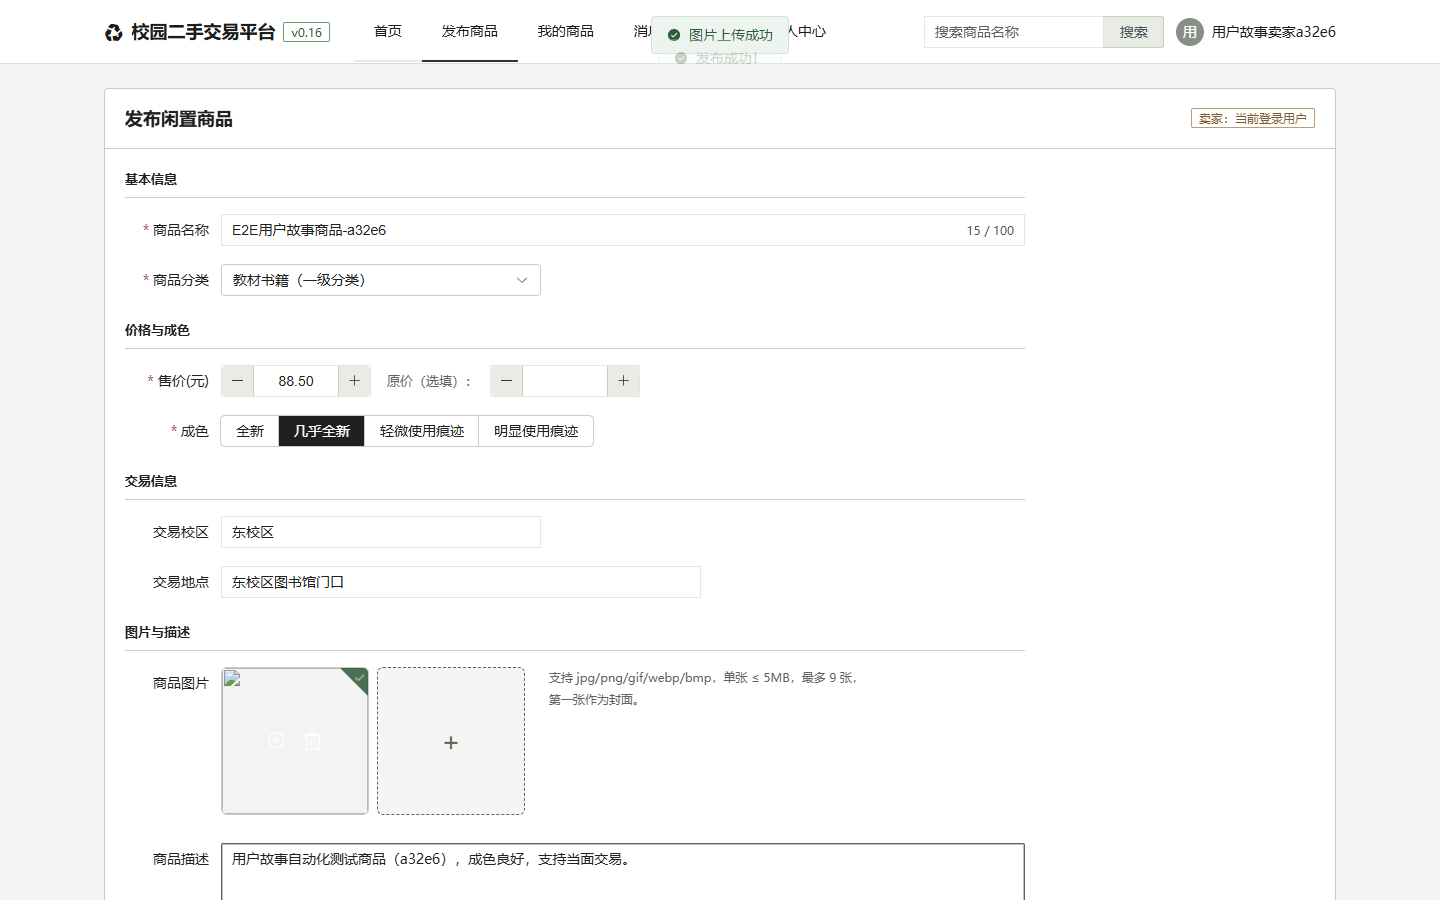
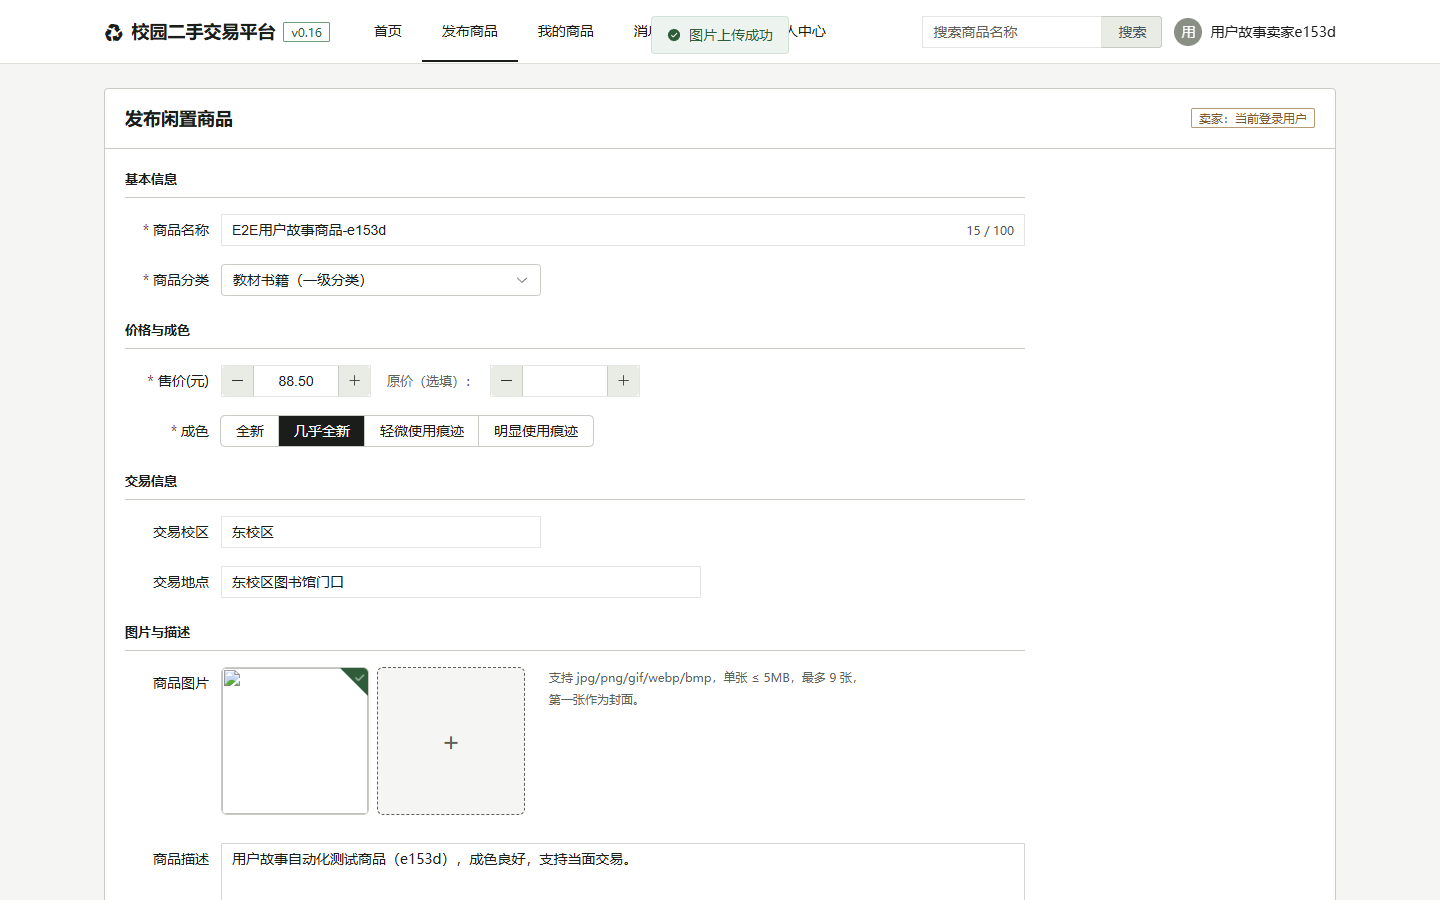
fix: 修复收藏取消断言漏确认弹窗；start.ps1 输出重定向与编码健壮性
一、tools/story-browser-report.py：收藏取消断言补上确认弹窗
  现象：浏览器报告里 US-FAV-01「取消收藏后列表中移除」一直未通过。
  原因：点「取消收藏」后会弹出 Element Plus 确认框（MessageBox），
        脚本点完按钮就刷新页面核对，没走确认这一步，取消根本没生效。
        用户手工验证收藏与取消都正常 —— 确认是脚本断言链路不完整。
  修复：点击后若出现 .el-message-box__btns .el-button--primary 则先确认，再刷新核对。
  结果：13/13 条浏览器执行的故事全部通过，页面 JS 错误 0。

二、deploy/windows/start.ps1：两个健壮性问题
  1) nginx 启动未重定向 stdout/stderr → 子进程继承调用方的标准输出句柄，
     表现为"脚本已跑完但调用方一直等不到管道结束"（此前在外部工具里执行会挂住）。
     改为重定向到 logs/nginx-console.log 与 nginx-error.log，并用 splatting 传参，
     避免反引号续行受行尾空格影响。
  2) $PSScriptRoot 在个别调用方式下为空会导致 Join-Path 直接抛错，
     增加兜底：退回 $MyInvocation.MyCommand.Path。

三、仓库内 .ps1 统一改为 UTF-8 with BOM
  Windows PowerShell 5.1 读取无 BOM 的 UTF-8 文件时按 GBK 解析，
  中文注释会乱码（实测报错信息里出现 "椤圭..."），若中文进入字符串逻辑还会引发故障。
  给 deploy/ 与 tools/ 下的 .ps1 加上 BOM 后 5.1 可正确识别。

diff --git a/tools/story-browser-report.py b/tools/story-browser-report.py
@@ -293,13 +293,21 @@ def us_fav_01(browser, pid):
     cancel = page.get_by_role('button', name='取消收藏')
     if cancel.count() > 0:
         cancel.first.click()
+        time.sleep(1.2)
+        # ★ 取消收藏会弹出确认框（Element Plus MessageBox），必须点「确定」才真正生效。
+        #   此前脚本点完按钮就刷新，没走确认这一步，于是得到"取消后仍存在"的结论，
+        #   把正常功能误报成了未通过（用户手工验证：点收藏、取消收藏都正常）。
+        #   —— 教训：断言前要确认交互链路完整（弹窗、二次确认、异步刷新都算链路的一部分）。
+        confirm = page.locator('.el-message-box__btns .el-button--primary')
+        if confirm.count() > 0:
+            confirm.first.click()
         time.sleep(1.5)
-        # 收藏列表不会在取消后自动移除该项，需要重新加载页面再核对（真实用户也是刷新后才确信）
+        # 收藏列表不会在取消后自动移除该项，重新加载页面再核对（真实用户也是刷新后才确信）
         page.reload(wait_until='domcontentloaded')
         time.sleep(2)
         gone = P_TITLE not in body(page)
         ok = ok and gone
-        notes.append(f'AC2 取消收藏 → 刷新收藏页后该商品{"已移除 ✓" if gone else "仍存在 ✗"}')
+        notes.append(f'AC2 取消收藏（含确认弹窗）→ 刷新收藏页后该商品{"已移除 ✓" if gone else "仍存在 ✗"}')
         shots.append(shot(page, 'US-FAV-01-3-取消收藏'))
     else:
         notes.append('AC2 未找到「取消收藏」按钮 ✗')

diff --git a/docs/测试报告-用户故事视角.md b/docs/测试报告-用户故事视角.md
@@ -8,13 +8,13 @@
 
 | 项 | 值 |
 | --- | --- |
-| 执行时间 | 2026-10-09 14:48:50 ~ 14:50:28 |
+| 执行时间 | 2026-10-09 15:44:40 ~ 15:46:17 |
 | 浏览器 | Microsoft Edge（Chromium 内核，Playwright 驱动，无头模式） |
 | 视口 | 1440 × 900（含 390 × 844 窄屏场景） |
 | 被测地址 | http://127.0.0.1:8081（Nginx 部署形态） |
-| 夹具 TAG | `a32e6`（账号 `e2e*`、商品标题 `E2E*`，运行结束自动清理） |
+| 夹具 TAG | `e153d`（账号 `e2e*`、商品标题 `E2E*`，运行结束自动清理） |
 | 浏览器逐条执行的用户故事 | **13 条** |
-| 通过 | **12 / 13** |
+| 通过 | **13 / 13** |
 | 页面 JS 错误合计 | **0** |
 | 截图证据 | `docs/story-evidence/`（共 28 张） |
 | 用户故事总覆盖 | **33 / 33**（浏览器逐条执行 + 三套自动化测试，见第三节矩阵） |
@@ -28,7 +28,7 @@
 | **US-GOODS-01** 发布商品（校验 + 真实发布） | AC1 发布成功 / AC2 空值拦截 / AC3 价格约束 | ✅ 通过 | 0 |
 | **US-GOODS-01b** 新商品在首页可见 | AC（补充）发布后前台可检索 | ✅ 通过 | 0 |
 | **US-GOODS-04** 商品详情与异常态 | AC1 详情渲染 / 异常时明确反馈 | ✅ 通过 | 0 |
-| **US-FAV-01** 收藏与取消收藏 | AC1 收藏 / AC2 取消 / US-FAV-02 我的收藏 | ❌ 未通过 | 0 |
+| **US-FAV-01** 收藏与取消收藏 | AC1 收藏 / AC2 取消 / US-FAV-02 我的收藏 | ✅ 通过 | 0 |
 | **US-CHAT-01** 私聊卖家与会话列表 | AC1 发送 / US-CHAT-02 已读 / US-CHAT-03 会话 | ✅ 通过 | 0 |
 | **US-ORDER-01** 下单与订单流转 | AC1 下单 / US-ORDER-02 双方视图 / 03 完成 | ✅ 通过 | 0 |
 | **US-RECO-01** 首页个性化推荐 | AC1 猜你喜欢存在 | ✅ 通过 | 0 |
@@ -58,7 +58,7 @@
 **验收标准**：AC1 注册成功 / AC3 空值拦截　　**结论**：✅ 通过
 
 - AC3 空表单提交 → 4 个字段进入校验失败状态（红框标记），可见错误文案 0 条
-- AC1 真实注册账号 e2estora32e6 → 注册成功并跳转登录页 ✓
+- AC1 真实注册账号 e2estore153d → 注册成功并跳转登录页 ✓
 
 ![US-USER-01](story-evidence/US-USER-01-1-注册页空表单校验.png)
 
@@ -70,7 +70,7 @@
 
 - AC2 空表单提交 → 提示 ['请输入商品名称', '请选择商品分类', '请输入售价']
 - AC3 售价输入 25.555 → 组件归一化为 25.56（el-input-number :precision=2）
-- AC1 真实发布成功 → 跳转详情页 /product/510（标题 E2E用户故事商品-a32e6）
+- AC1 真实发布成功 → 跳转详情页 /product/511（标题 E2E用户故事商品-e153d）
 - AC（v0.17 内容机审）发布含「代写 / 包过」的违规商品 → 被拒绝并给出具体原因 ✓
 
 ![US-GOODS-01](story-evidence/US-GOODS-01-1-空表单校验.png)
@@ -100,11 +100,11 @@
 
 #### US-FAV-01　收藏与取消收藏
 
-**验收标准**：AC1 收藏 / AC2 取消 / US-FAV-02 我的收藏　　**结论**：❌ 未通过
+**验收标准**：AC1 收藏 / AC2 取消 / US-FAV-02 我的收藏　　**结论**：✅ 通过
 
 - AC1 点击收藏 → 按钮由「☆ 收藏（0）」变为「★ 已收藏（1）」
 - AC（US-FAV-02）我的收藏页能看到该商品 ✓
-- AC2 取消收藏 → 刷新收藏页后该商品仍存在 ✗
+- AC2 取消收藏（含确认弹窗）→ 刷新收藏页后该商品已移除 ✓
 
 ![US-FAV-01](story-evidence/US-FAV-01-1-收藏商品.png)
 
@@ -241,4 +241,4 @@
 
 ---
 
-*报告由脚本自动生成于 2026-10-09 14:50:28；重新生成：`python tools/story-browser-report.py`。*
+*报告由脚本自动生成于 2026-10-09 15:46:17；重新生成：`python tools/story-browser-report.py`。*
